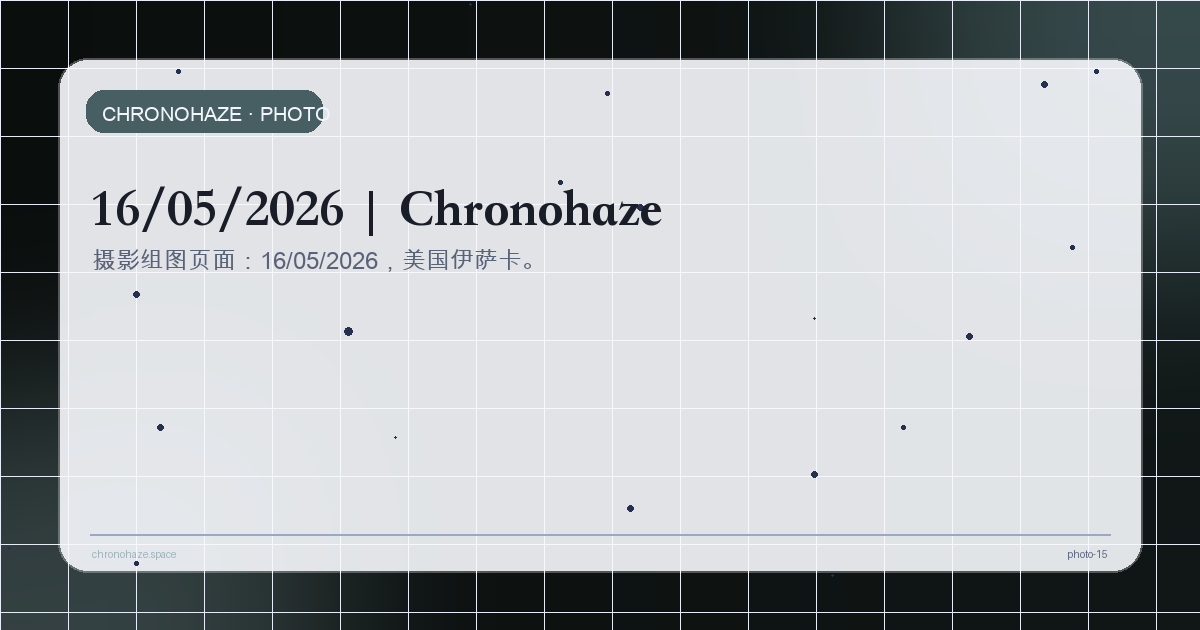
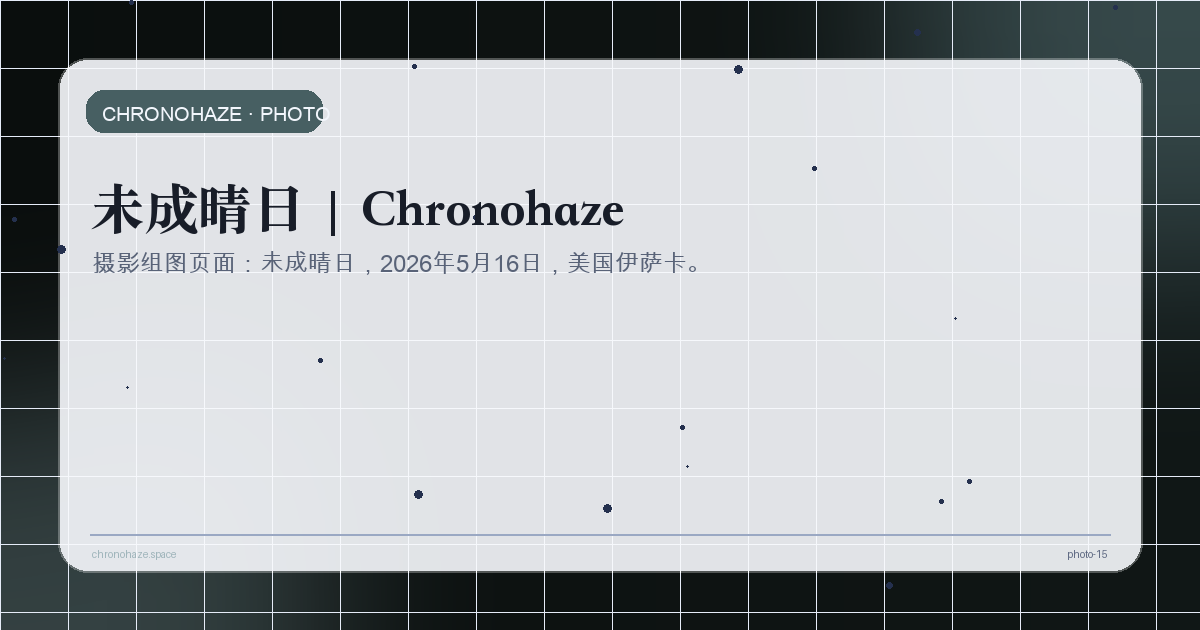
Update May 16 Ithaca photo title and statement

Changed region(s): [[0.0617, 0.2714, 0.555, 0.4524]]

diff --git a/photo/photo-15.html b/photo/photo-15.html
@@ -139,17 +139,17 @@
   </script>
   <link rel="icon" type="image/x-icon" href="https://lyuf09.github.io/chronohaze/assets/favicon.ico?v=4" />
   <link rel="apple-touch-icon" href="https://lyuf09.github.io/chronohaze/assets/apple-touch-icon.png?v=4" />
-  <title>16/05/2026 | 摄影 | Chronohaze</title>
-  <meta name="description" content="摄影组图页面：16/05/2026，美国伊萨卡。" />
+  <title>未成晴日 | 摄影 | Chronohaze</title>
+  <meta name="description" content="摄影组图页面：未成晴日，2026年5月16日，美国伊萨卡。" />
   <meta property="og:type" content="article" />
   <meta property="og:site_name" content="Chronohaze" />
-  <meta property="og:title" content="16/05/2026 | Chronohaze" />
-  <meta property="og:description" content="摄影组图页面：16/05/2026，美国伊萨卡。" />
+  <meta property="og:title" content="未成晴日 | Chronohaze" />
+  <meta property="og:description" content="摄影组图页面：未成晴日，2026年5月16日，美国伊萨卡。" />
   <meta property="og:url" content="https://lyuf09.github.io/chronohaze/photo/photo-15.html" />
   <meta property="og:image" content="https://lyuf09.github.io/chronohaze/assets/og/site/photo-15.png" />
   <meta name="twitter:card" content="summary_large_image" />
-  <meta name="twitter:title" content="16/05/2026 | Chronohaze" />
-  <meta name="twitter:description" content="摄影组图页面：16/05/2026，美国伊萨卡。" />
+  <meta name="twitter:title" content="未成晴日 | Chronohaze" />
+  <meta name="twitter:description" content="摄影组图页面：未成晴日，2026年5月16日，美国伊萨卡。" />
   <meta name="twitter:image" content="https://lyuf09.github.io/chronohaze/assets/og/site/photo-15.png" />
   <link rel="canonical" href="https://lyuf09.github.io/chronohaze/photo/photo-15.html" />
 
@@ -221,14 +221,16 @@
 
     <main class="main">
       <article class="article photo-detail-article">
-        <h1>16/05/2026</h1>
+        <h1 data-copy-en="An Unfinished Clearing" data-copy-zh="未成晴日">未成晴日</h1>
         <p class="article-meta">美国伊萨卡 · 2026年</p>
         <section class="photo-detail-statement" aria-label="Series statement">
           <div data-lang-block="zh">
-            <p>这组照片拍摄于美国伊萨卡，时间是2026年5月16日。五月的树叶、花、石阶与水边结构在柔和的日光里连成一段缓慢的步行记录。它们不追求明确的叙事，而保留抵达一个地方时轻微的停顿：看见路径，停在植物前，让绿色和白色的光先组织画面。</p>
+            <p>这组照片拍摄于一次很短的下午散步。考试结束后我已经好几天没有真正出门，天气忽然放晴，于是我在附近走了一圈。但光线很快又暗下去，最后只留下几张植物、房屋、街角和天空。</p>
+            <p>我故意保留了模糊与柔焦，让这些画面不像一次清楚的记录，而更像刚从室内、疲惫和长时间学习中浮出来时，对外界的短暂感知。它们关于伊萨卡的春天，也关于一个很快消失的晴天。</p>
           </div>
           <div data-lang-block="en">
-            <p>This series was made in Ithaca, United States, on May 16, 2026. Leaves, flowers, stone steps, and waterside structures become a slow walking record under soft spring light. The photographs do not insist on a fixed narrative; they keep the small pause of arriving somewhere, noticing paths, stopping before plants, and letting green and white light arrange the frame first.</p>
+            <p>This series was made during a short afternoon walk after my exams. I had barely gone outside for several days, and the weather suddenly cleared, so I walked around the neighborhood. The light disappeared again almost immediately, leaving only a few photographs of plants, houses, street corners, and sky.</p>
+            <p>I intentionally kept the images soft and slightly out of focus. Rather than documenting the walk clearly, they hold the brief sensation of returning to the outside world after days of exhaustion and study — a small clearing in Ithaca spring, gone almost as soon as it arrived.</p>
           </div>
         </section>
         <div class="photo-detail-gallery">

diff --git a/search.html b/search.html
@@ -230,7 +230,7 @@
       "content": "chronohaze.space 主页 数学 摄影 音乐 CV 17/05/2026 美国伊萨卡 · 2026年 五月十七日的伊萨卡 Ithaca, May 17 2026年5月17日 美国伊萨卡 树影 湖水 街道 窗 桥 植物 建筑 水面 光线 返回摄影栏目 chronohaze.space"
     },
     {
-      "title": "五月的伊萨卡",
+      "title": "未成晴日",
       "url": "photo/photo-15.html",
       "section": "Photography",
       "date": "16/05/2026",
@@ -240,7 +240,7 @@
       ],
       "sort": 20260516,
       "scope": "photo",
-      "content": "chronohaze.space 主页 数学 摄影 音乐 CV 16/05/2026 美国伊萨卡 · 2026年 五月的伊萨卡 Ithaca in May 2026年5月16日 美国伊萨卡 五月的树叶 花 石阶 水边结构 柔和日光 返回摄影栏目 chronohaze.space"
+      "content": "chronohaze.space 主页 数学 摄影 音乐 CV 未成晴日 An Unfinished Clearing 16/05/2026 美国伊萨卡 · 2026年 2026年5月16日 美国伊萨卡 短暂下午散步 考试结束 放晴 植物 房屋 街角 天空 模糊 柔焦 伊萨卡春天 很快消失的晴天 返回摄影栏目 chronohaze.space"
     },
     {
       "tags": [

diff --git a/photography.html b/photography.html
@@ -268,7 +268,7 @@
 <img alt="摄影系列预览图：16/05/2026 — 美国伊萨卡 · 2026年" decoding="async" height="2592" loading="lazy" sizes="(max-width: 640px) 92vw, (max-width: 980px) 46vw, 29vw" src="assets/images/wix/ithaca-20260516-02-960.webp" width="1728"/>
 </picture>
 <div class="photo-meta">
-<p class="photo-title" data-copy-en="Ithaca in May" data-copy-zh="五月的伊萨卡">五月的伊萨卡</p>
+<p class="photo-title" data-copy-en="An Unfinished Clearing" data-copy-zh="未成晴日">未成晴日</p>
 <p class="photo-date" data-copy-en="16/05/2026" data-copy-zh="16/05/2026">16/05/2026</p>
 <p class="photo-subtitle" data-copy-en="Read More" data-copy-zh="阅读全文">阅读全文</p>
 </div>
